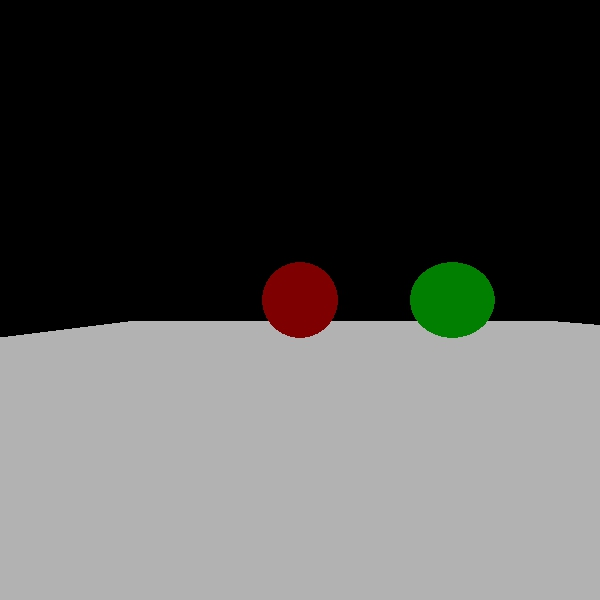
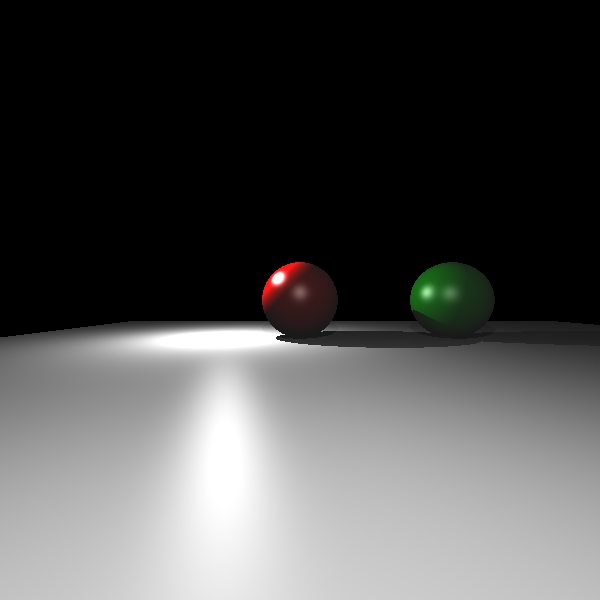
added a preview camera

Changed region(s): [[0.0, 0.42, 1.0, 1.0]]

diff --git a/src/ofApp.cpp b/src/ofApp.cpp
@@ -2,7 +2,8 @@
 
 //--------------------------------------------------------------
 void ofApp::setup(){
-	
+
+	prevCam.disableMouseInput();
 	Sphere* sphere1 = new Sphere(glm::vec3(50,25,100), glm::vec3(0.5f,0.0f,0.0f), glm::vec3(1.0f,1.0f,1.0f), 25, nullptr);
 	set.push_back((SceneObject*)sphere1);
 	Sphere* sphere2 = new Sphere(glm::vec3(-50, 25, 100), glm::vec3(0.0f, 0.5f, 0.0f), glm::vec3(1.0f, 1.0f, 1.0f), 25, nullptr);
@@ -11,8 +12,11 @@ void ofApp::setup(){
 	FinitePlane* plane1 = new FinitePlane(glm::vec3(0, 0, 0), glm::vec3(0, 1, 0), glm::vec3(0.7f, 0.7f, 0.7f), glm::vec3(1.0f, 1.0f, 1.0f), nullptr, 0.0f, glm::vec2(500, 500));
 	set.push_back((SceneObject*)plane1);
 	//cam = RayCam(glm::vec3(0.0f, 0.0f, -1.0f), glm::vec3(-1.0f, 0.0f, 0.0f), glm::vec3(0.0f, 1.0f, 0.0f), glm::vec3(0.0f, 0.0f, 0.0f));
+	
 	cam.setPos(glm::vec3(50,25,-100));
-
+	prevCam.setPosition(glm::vec3(50, 25, -100));
+	//cam.rotate(glm::angleAxis(glm::radians(-45.0f), glm::vec3(0.0f, 1.0f, 0.0f)));
+	
 	Light* light1 = new Light();
 	light1->color = glm::vec3(1.0f, 1.0f, 1.0f);
 	light1->intensity = 10000.0f;
@@ -26,10 +30,16 @@ void ofApp::setup(){
 	lights.push_back(light2);
 
 	cam.setAspectRatio(glm::vec2(1,1));
+	prevCam.setAspectRatio(1.0f);
 	cam.setFOV(90.0f);
-	RayTracer::testRayTracer(cam, set, lights, glm::vec2(600, 600), img);
+	prevCam.setFov(90.0f);
+	prevCam.setOrientation(glm::angleAxis(glm::radians(180.0f), glm::vec3(0.0f,1.0f,0.0f)));
+
+	RayTracer::phongRayTracer(cam, set, lights, glm::vec2(600, 600), img);
 	img.save("render.jpg");
 	ofSetWindowShape(600,600);
+	ofSetBackgroundColor(ofColor::black);
+
 }
 
 //--------------------------------------------------------------
@@ -39,7 +49,10 @@ void ofApp::update(){
 
 //--------------------------------------------------------------
 void ofApp::draw(){
-	img.draw(0,0);
+	prevCam.begin();
+	for (auto obj : set)
+		obj->draw();
+	prevCam.end();
 }
 
 //--------------------------------------------------------------

diff --git a/src/SceneObjects.cpp b/src/SceneObjects.cpp
@@ -15,7 +15,7 @@ void Sphere::draw() const
 	ofPushMatrix();
 	ofTranslate(pos);
 	ofNoFill();
-	ofSetColor(ofColor(c_diff.x, c_diff.y, c_diff.z));
+	ofSetColor(ofColor(c_diff.x*255, c_diff.y*255, c_diff.z*255));
 	ofDrawSphere(radius);
 	ofFill();
 	ofPopMatrix();
@@ -55,7 +55,20 @@ Plane::Plane(const glm::vec3& pos, const glm::vec3& norm, const glm::vec3& diffu
 glm::vec3 Plane::getPos() const { return pos; }
 glm::quat Plane::getRot() const { return glm::quat(); }
 
-void Plane::draw() const {/*TODO: Implement Me*/}
+void Plane::draw() const {
+	auto plane = ofPlanePrimitive();
+	plane.set(10000,10000);
+	ofPushMatrix();
+	ofTranslate(this->getPos());
+	auto rot = glm::angleAxis(glm::acos(glm::dot(this->norm, glm::vec3(0.0f, 0.0f, 1.0f))), glm::cross(this->norm, glm::vec3(0.0f, 0.0f, 1.0f)));
+	auto eul = glm::eulerAngles(rot);
+	ofRotateX(glm::degrees(eul.x));
+	ofRotateY(glm::degrees(eul.y));
+	ofRotateZ(glm::degrees(eul.z));
+	ofSetColor(ofColor(c_diff.x * 255, c_diff.y * 255, c_diff.z * 255));
+	plane.drawWireframe();
+	ofPopMatrix();
+}
 RayHit Plane::castRay(const Ray& ray) const
 {
 	RayHit _return = RayHit();
@@ -103,4 +116,19 @@ RayHit FinitePlane::castRay(const Ray& ray) const
 	return RayHit();//otherwise, we say we didn't hit the plane.
 }
 
-void FinitePlane::draw() const {/*TODO: Implement Me*/}
+void FinitePlane::draw() const {
+	auto plane = ofPlanePrimitive();
+	plane.set(bounds.x, bounds.y);
+	ofPushMatrix();
+
+	auto rot = glm::angleAxis(glm::acos(glm::dot(this->norm, glm::vec3(0.0f, 0.0f, 1.0f))), glm::cross(this->norm, glm::vec3(0.0f, 0.0f, 1.0f)));
+	auto eul = glm::eulerAngles(rot);
+	ofRotateX(glm::degrees(eul.x));
+	ofRotateY(glm::degrees(eul.y));
+	ofRotateZ(glm::degrees(eul.z));
+	ofTranslate(this->getPos());
+
+	ofSetColor(ofColor(c_diff.x * 255, c_diff.y * 255, c_diff.z * 255));
+	plane.drawWireframe();
+	ofPopMatrix();
+}

diff --git a/src/Light.cpp b/src/Light.cpp
@@ -37,3 +37,11 @@ glm::vec3 Light::getIntensity(const RayHit& point, const std::vector<SceneObject
 	return glm::vec3();
 	
 }
+
+void Light::drawDebug() const
+{
+	ofPushMatrix();
+	ofTranslate(pos);
+	ofDrawAxis(10.0f);
+	ofPopMatrix();
+}

diff --git a/src/ofApp.h b/src/ofApp.h
@@ -11,6 +11,7 @@ class ofApp : public ofBaseApp{
 		std::vector<SceneObject*> set;
 		std::vector<Light*> lights;
 		RayCam cam;
+		ofEasyCam prevCam;
 		ofImage img;
 		void keyPressed(int key);
 		void keyReleased(int key);

diff --git a/src/Light.h b/src/Light.h
@@ -13,4 +13,5 @@ public:
 	Light(const Light&);
 	Light& operator=(const Light&);
 	glm::vec3 getIntensity(const RayHit& point, const std::vector<SceneObject*>& obj);
+	void drawDebug() const;
 };

diff --git a/src/Ray.cpp b/src/Ray.cpp
@@ -185,3 +185,8 @@ void RayCam::rotate(const glm::quat& rot)
 	right = glm::normalize(rot * right);
 	up = glm::normalize(rot * up);
 }
+
+void RayCam::drawDebug() const
+{
+
+}

diff --git a/src/Ray.h b/src/Ray.h
@@ -46,4 +46,5 @@ public:
 	void setFOV(float);
 	void setAspectRatio(const glm::vec2& aspec);
 	void setAspectRatio(float);
+	void drawDebug() const;
 };
